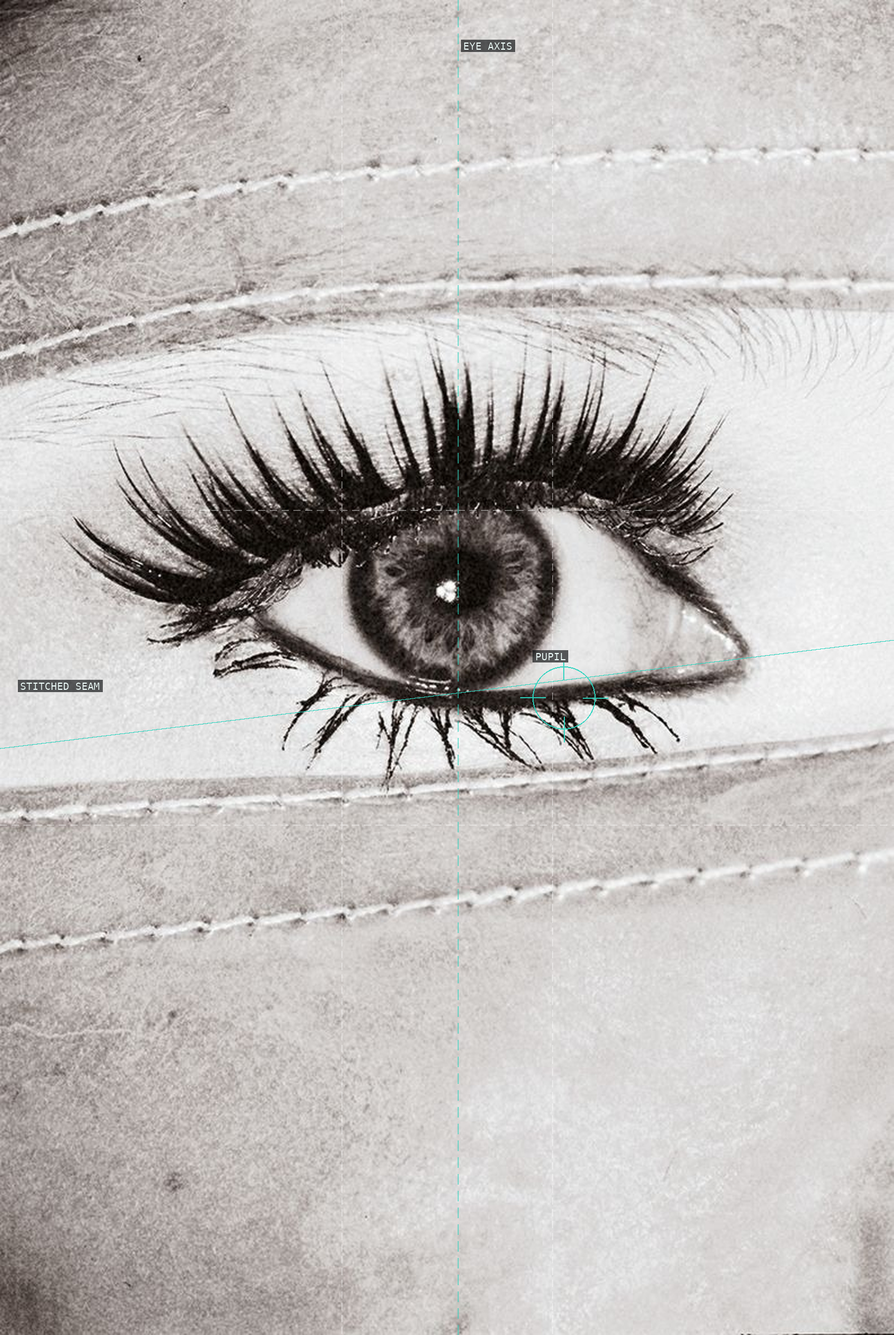
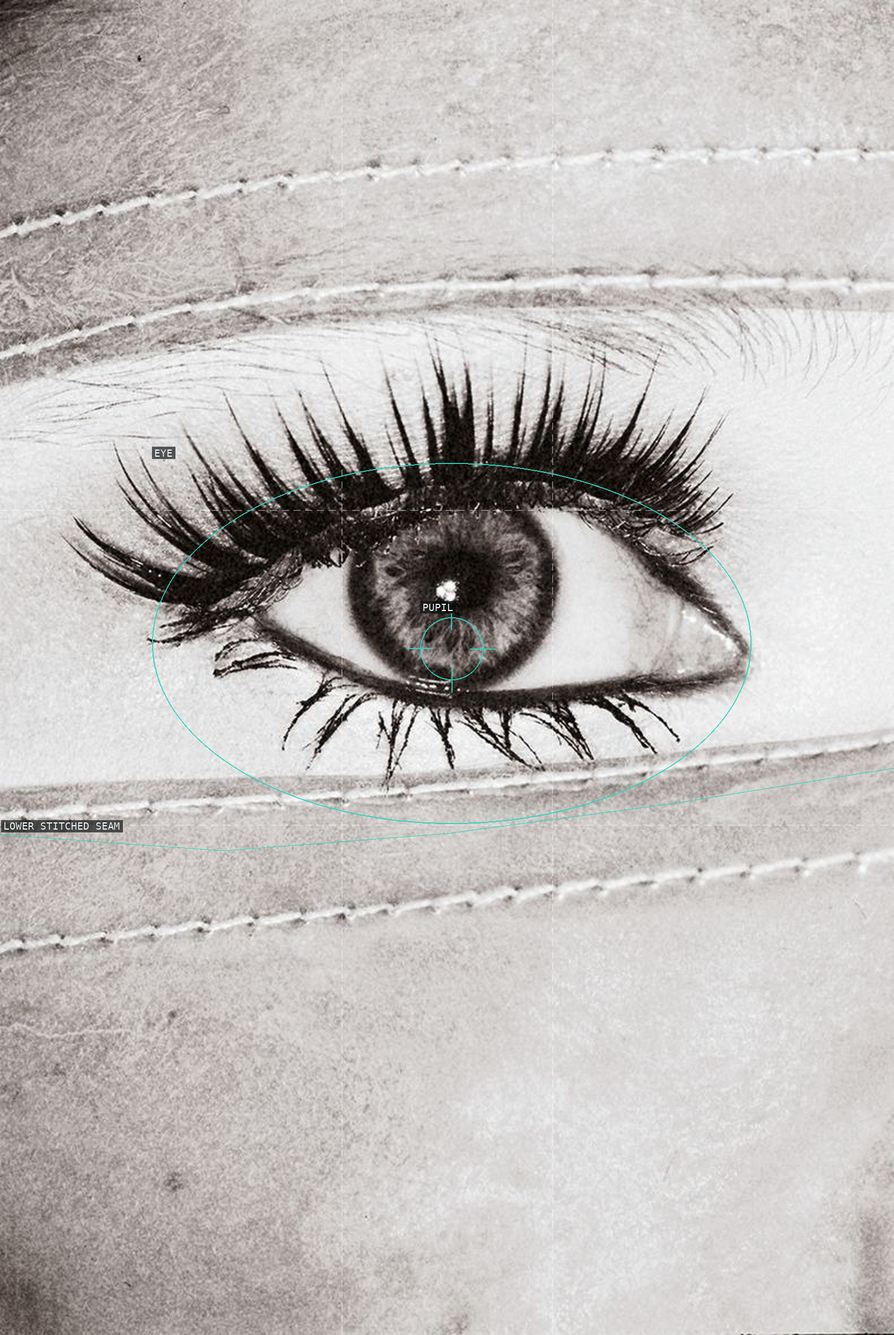
resolve critique: carlijn-jacobs

diff --git a/content/carlijn-jacobs/sources.md b/content/carlijn-jacobs/sources.md
@@ -7,9 +7,9 @@ This set draws from the openly readable Vogue Italia feature ["Il lato più inti
 ## Shortlist
 
 ### 01 — *Glossy feet, Paris* (2023), *Sleeping Beauty*
-- **Why it matters:** The paired red shoes and their water reflection make a low, frontal symmetry; the cropped limbs turn gloss, skin, and rippled light into a compact ornamental field.
+- **Why it matters:** The paired red shoes settle into folded blue satin; the cropped limbs turn gloss, skin, bows, and fabric folds into a compact ornamental field.
 - **Source:** [Vogue Italia feature](https://www.vogue.it/article/carlijn-jacobs-fotografia-intervista); public display rendition: https://compass-media.vogue.it/photos/651cd02ac8e0b0def4c052dc/master/w_1280,c_limit/Glossy%20feet,%20Paris,%202023.jpg
-- **Rights / fair-use assessment:** Carlijn Jacobs; © Carlijn Jacobs / Condé Nast (publisher notice). **Factor 1:** transformative composition criticism examines reflected symmetry and the red-footwear anchor. **Factor 2:** a highly creative contemporary fashion photograph. **Factor 3:** the complete square is needed to compare the feet, reflection, and surrounding water. **Factor 4:** this credited 1280 × 1280px public rendition links to Vogue and cannot substitute for the work, print, or licensed file.
+- **Rights / fair-use assessment:** Carlijn Jacobs; © Carlijn Jacobs / Condé Nast (publisher notice). **Factor 1:** transformative composition criticism examines paired footwear, bows, cropped limbs, and the satin folds that contain them. **Factor 2:** a highly creative contemporary fashion photograph. **Factor 3:** the complete square is needed to compare the feet and shoes with the surrounding folded satin. **Factor 4:** this credited 1280 × 1280px public rendition links to Vogue and cannot substitute for the work, print, or licensed file.
 - **File:** `raw/carlijn-jacobs/01-glossy-feet-paris-2023.jpg` (1280 × 1280px)
 
 ### 02 — *Sleeping Beauty, Paris* (2023)

diff --git a/content/carlijn-jacobs/critique.md b/content/carlijn-jacobs/critique.md
@@ -1,4 +1,4 @@
-verdict: revise
+verdict: resolved
 
 ## Critique round — 2026-08-01
 
@@ -51,3 +51,23 @@ byte-identical.
 
 - All twelve direct Vogue/Compass Media links returned HTTP 200 in this review. Their records retain traceable credits, a per-image four-factor fair-use rationale, and no evidence of an access-control bypass.
 - The prior 2026-08-01 resolution remains intact: `07-eyes-08` follows the pearl string, `08-eyes-07` has no false red-vertical claim, `10-eyes-05` traces the black diamond, and `12-cherry-paris-2022` follows the stem; the corrected source notes for 11 and 12 still match their supplied renditions. Those settled findings are not reopened.
+
+## Builder resolution — 2026-08-01
+
+Resolved all three current required items. Re-analyzed, rendered, visually
+inspected, and scored the affected overlays: `01-glossy-feet-paris-2023`
+(100), `03-eyes-03` (100), and `06-eyes-09` (100). The first plate now names
+folded satin and a visible shoe band rather than water or reflection, in both
+the overlay and its source rationale. The *Eyes 03* pupil marker and lower
+stitched-seam path now land on their named features. The *Eyes 09* false
+vanishing point has been removed; its centered pupil ellipse, eye boundary,
+and upper-pin path follow the photographed features, and the chapter no longer
+claims perspective convergence.
+
+Re-verified the complete prior critique history: the first **2026-08-01**
+round (all six required fixes) and its **2026-08-01** builder resolution. The
+pearl string, lip ellipse/no-red-vertical correction, tilted black-diamond
+frame, and curving cherry stem remain visually aligned; the source-integrity
+corrections for plates 11 and 12 remain accurate. `scripts/check.sh` completed
+successfully before this verdict was set, and the rendered and content chapter
+copies remain byte-identical.
